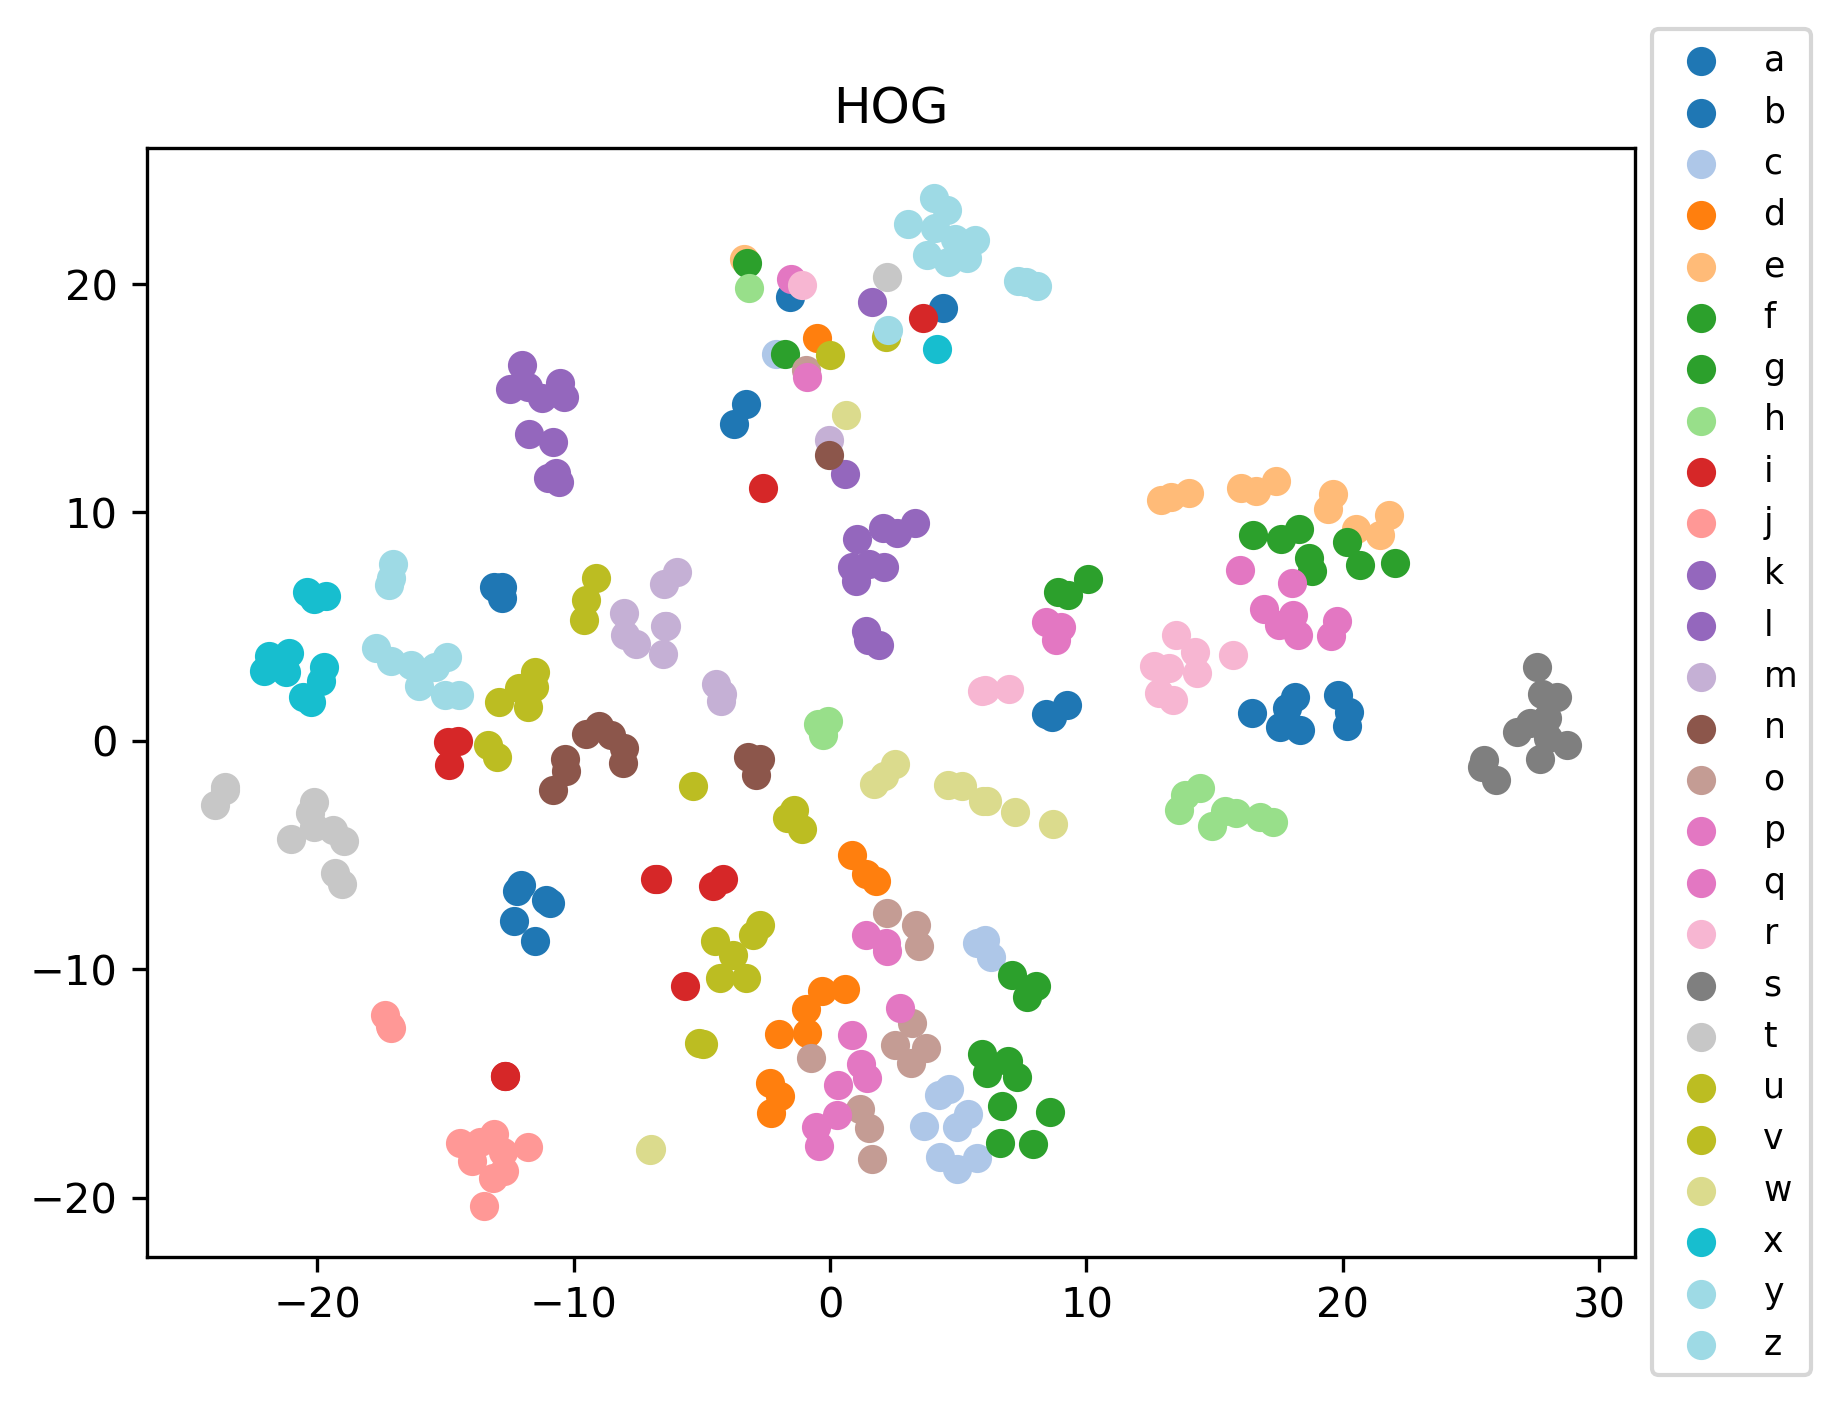
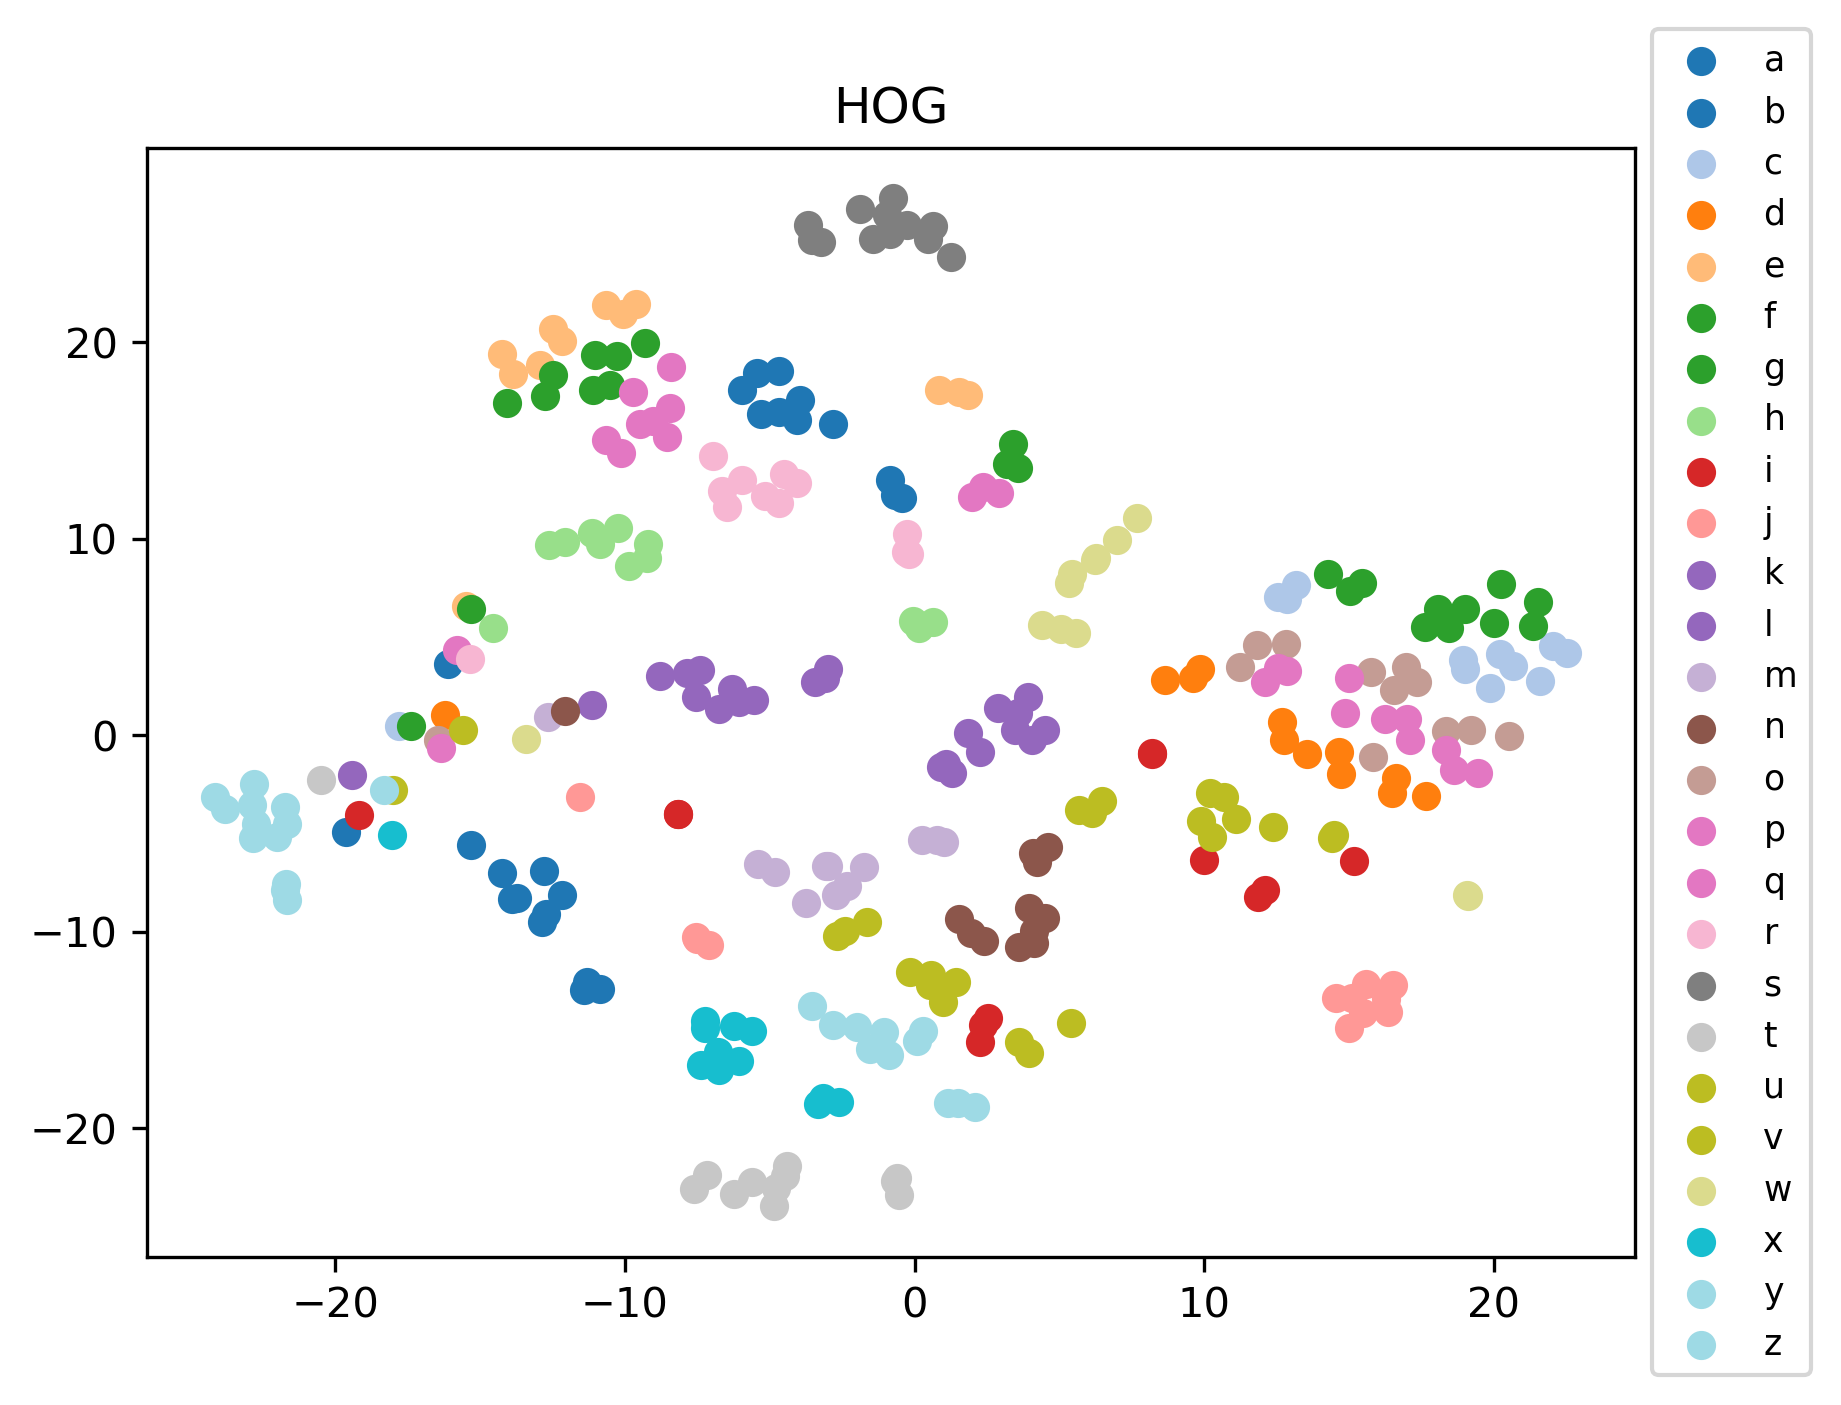
sweep parameters exercise 4 d)

diff --git a/Descriptors/CharacterDescriptors_Example.py b/Descriptors/CharacterDescriptors_Example.py
@@ -19,6 +19,9 @@ from matplotlib import pyplot as plt
 from sklearn.svm import LinearSVC
 from sklearn.neighbors import KNeighborsClassifier
 from sklearn.neural_network import MLPClassifier
+from sklearn.model_selection import train_test_split
+from sklearn.metrics import accuracy_score
+
 
 
 # OWN FUNCTIONS (MODIFY ACORDING TO YOUR LOCAL PATH)
@@ -31,7 +34,7 @@ from hog import FeatureHOG
 # DB Main Folder
 script_dir = os.path.dirname(os.path.abspath(__file__))
 
-DataDir = os.path.join(script_dir, "../example_fonts")
+DataDir = os.path.join(script_dir, "../datasets/example_fonts")
 ResultsDir = os.path.join(script_dir, "Results")
 
 # Load Font DataSets
@@ -161,6 +164,84 @@ for targetFeat in alphabetFeat.keys():
 
     
 ### VISUALIZE FEATURES IMAGES
+# ---- QUICK PARAM SWEEP+ ----
+# Tests a few HOG and LBP settings on digits only
+
+def resize(im, target_hw=(30, 15)):
+    h, w = target_hw
+    return cv2.resize(im, (w, h), interpolation=cv2.INTER_AREA)
+
+def safe_perplexity(n):
+    # t-SNE constraint: n > 3*perplexity + 1
+    return min(30, max(2, (n - 2) // 3))
+
+def tsne_plot(X, y, title, out_png):
+    from sklearn.manifold import TSNE
+    perp = safe_perplexity(len(X))
+    emb = TSNE(
+        n_components=2, random_state=42, init="pca",
+        learning_rate="auto", perplexity=perp
+    ).fit_transform(X)
+    plt.figure()
+    classes = np.unique(y)
+    cmap = plt.colormaps["tab20"].resampled(max(2, len(classes)))
+    for i, c in enumerate(classes):
+        m = (y == c)
+        plt.scatter(emb[m, 0], emb[m, 1], label=str(c), color=cmap(i), s=12)
+    plt.legend(loc="center left", bbox_to_anchor=(1, 0.5), fontsize="small")
+    plt.title(f"{title} (perp={perp})")
+    plt.tight_layout()
+    plt.savefig(out_png, dpi=300, bbox_inches="tight")
+    plt.close()
+
+def quick_score(X, y, tag):
+    # ultra-simple split + LinearSVC 
+    Xtr, Xte, ytr, yte = train_test_split(X, y, test_size=0.25, random_state=42, stratify=y)
+    clf = LinearSVC(dual="auto", random_state=42, max_iter=5000)
+    clf.fit(Xtr, ytr)
+    acc = accuracy_score(yte, clf.predict(Xte))
+    print(f"{tag}: accuracy={acc:.3f}")
+
+def quick_param_sweep_digits():
+    os.makedirs(ResultsDir, exist_ok=True)
+
+    hog_presets = [
+        {"orientations": 6},
+        {"orientations": 9},
+        {"orientations": 12},
+    ]
+    lbp_presets = [
+        {"radius": 1},
+        {"radius": 2},
+        {"radius": 3},
+    ]
+
+    # HOG sweeps
+    for i, kwargs in enumerate(hog_presets, 1):
+        try:
+            desc = FeatureHOG(**kwargs)
+            X = [desc.extract_image_features(resize(im)) for im in digitsIms]
+            X = np.asarray(X, dtype=np.float32)
+            tag = f"HOG{kwargs}"
+            tsne_plot(X, digitsLabels, f"Digits – {tag}", os.path.join(ResultsDir, f"Digits_{tag}.png"))
+            quick_score(X, digitsLabels, tag)
+        except TypeError as e:
+            print(f"Skipping HOG preset {kwargs}: {e}")
+
+    # LBP (block) sweeps
+    for i, kwargs in enumerate(lbp_presets, 1):
+        try:
+            desc = FeatureLBP(lbp_type="block_lbp", **kwargs)
+            X = [desc.extract_image_features(resize(im)) for im in digitsIms]
+            X = np.asarray(X, dtype=np.float32)
+            tag = f"LBP_BLOCK{kwargs}"
+            tsne_plot(X, digitsLabels, f"Digits – {tag}", os.path.join(ResultsDir, f"Digits_{tag}.png"))
+            quick_score(X, digitsLabels, tag)
+        except TypeError as e:
+            print(f"Skipping LBP preset {kwargs}: {e}")
+
+quick_param_sweep_digits()
+
 
 ## LBP Images for Digits
 
